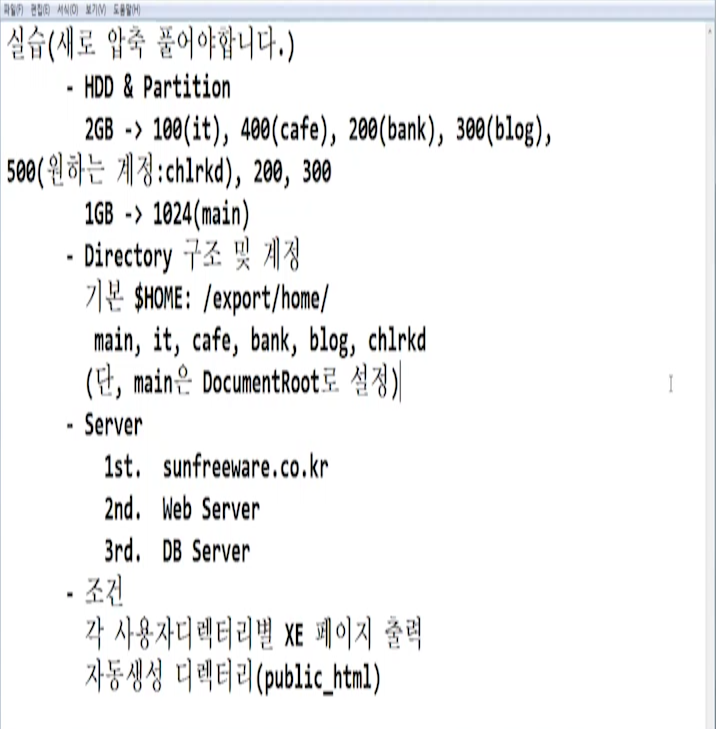
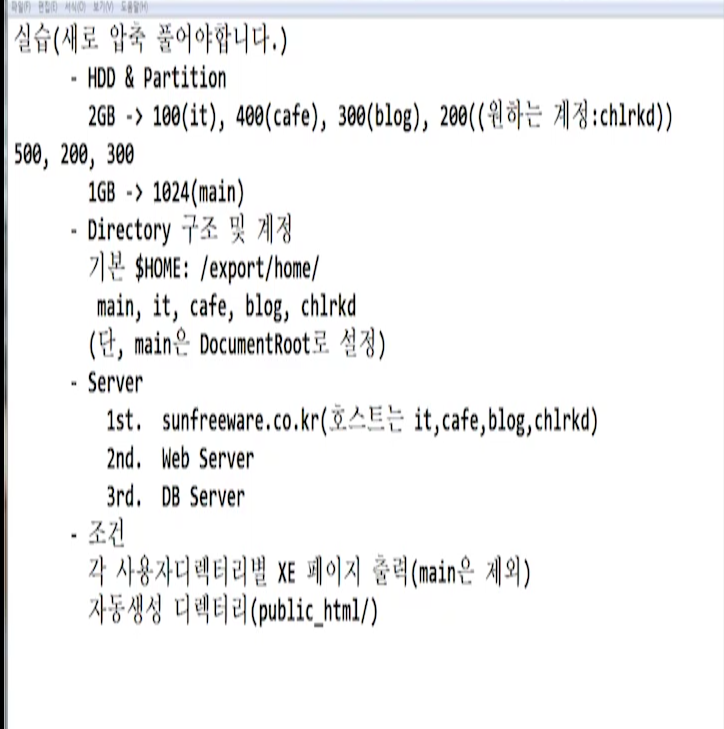
2020 July 1 Wen, Daily Commit
Today I studied Linux DNS, DB, WEB Total Project 1

Changed region(s): [[0.0, 0.0, 1.0, 1.0], [0.9218, 0.513, 0.9525, 0.5432]]

diff --git a/July 2020/7_1/Linux 종합.md b/July 2020/7_1/Linux 종합.md
@@ -1,0 +1,61 @@
+# [2020-07-01 수 TIL ]
+
+### Linux DNS / WEB / DB Server 
+
+- **XE 제로 보드** 사이트
+  - https://www.xpressengine.com/
+  - https://xe1.xpressengine.com/index.php?mid=download&package_id=18325662&release_id=22756225
+- 홈페이지 디자인 무료제작 
+  
+- 리눅스에도 .zip 파일 지원하기 때문에 `unzip` 명령으로 압축 풀수 있음 
+
+
+
+### <종합실습>
+
+<img src="./종합실습.PNG">
+
+ 
+
+- 파티션 유저  - Web Server(/dev/sdb)
+  - it 
+  - cafe 
+  - blog
+  - hyunjin (원하는 계정)
+- main (/dev/sdc)
+- domain : kangmung.com
+- **오토마운트 활성 후 사용자 생성** 
+- 시스템 3대 따로
+  - DNS 
+  - Web
+  - DB
+- xe 페이지 각각 3대 
+  - 각 사용자 디렉토리 
+
+
+
+***
+
+#### 7/1
+
+- OS 올릴때 swap 가상메모리 잘못잡음 
+  - Swap Memory 추가하기 (CentOS 7)
+    - [https://enesto.github.io/2018/11/19/181119_Swap%20Memory%20%EC%B6%94%EA%B0%80/](https://enesto.github.io/2018/11/19/181119_Swap Memory 추가/)
+- automount - `/etc/fstab` 설정 잘못함 
+- 패키지 설치 문제 
+
+- VMware Failed to lock the file 오류, 이렇게
+  - 출처: https://pikon.tistory.com/entry/VMware-Failed-to-lock-the-file-오류-이렇게 [피콘]
+
+- DNS, DB, WEB 방화벽 / 데몬 / 패키지 설정완료
+- 오토마운트 유저 성공 
+- main 유저 홈 디렉토리 못찾아감 / 나머지는 홈 디렉토리 잘찾아감 
+
+
+/dev/sdb1                         /export/home/mp_main/main/mp_it          ext4    defaults        1 2
+/dev/sdb2                         /export/home/mp_main/main/mp_cafe        ext4    defaults        1 2
+/dev/sdb3                         /export/home/mp_main/main/mp_blog        ext4    defaults        1 2
+/dev/sdb5                         /export/home/mp_main/main/mp_hyunjin     ext4    defaults        1 2
+/dev/sdc1                         /export/home/mp_main                     ext4    defaults        1 2
+
+***

diff --git a/June 2020/6_25/Linux FTP NFS Server Automount.md b/June 2020/6_25/Linux FTP NFS Server Automount.md
@@ -104,10 +104,11 @@ $ blkid # block id
 
 
 9 UUID=f08bb8c5-a64a-4c0e-a2bf-ff26020d0034 
-[M.P]	      [f.s type][Automount여부] [dump][filesystem check]
-/                ext4    defaults         1    1
-10 UUID=f75a7257-f359-4baa-8666-de95f1bf03ad 
-swap             swap    defaults         0    0
+[UUID]            [M.P]	      [f.s type][Automount여부] [dump][filesystem check]
+HDD 파티션이름      /               ext4    defaults         1    1
+
+[UUID]           10 UUID=f75a7257-f359-4baa-8666-de95f1bf03ad 
+/dev/sda2            swap             swap    defaults         0    0
 
 ```
 
@@ -122,7 +123,7 @@ swap             swap    defaults         0    0
 
 <img src="./automount.PNG">
 
-- 11번 라인 automount 실패시 부팅이안됨 (관리자 모드 부팅)
+- ### 11번 라인 automount 실패 시 부팅이 안됨 (관리자 모드 부팅해야함)
 
 
 

diff --git a/June 2020/6_26/Linux DNS Server.md b/June 2020/6_26/Linux DNS Server.md
@@ -80,6 +80,7 @@
         - naver
 
 - 정방향 조회 
+  
   - Domain -> IP 변환 (udp)
 - 역방향 조회
   - IP -> 역 IP
@@ -165,7 +166,7 @@ nameserver 168.126.63.1   # kns (인터넷 서버중 하나) 슈퍼dns
 
 #### `/etc/named.rfc1912.zones`
 
-- 정방향, 역방향 영역을 정의하는 파일 
+- **정방향, 역방향 영역을 정의하는 파일** 
 - 적혀있는 쉘 스크립트 복사해서 밑에 붙여넣은후 수정해야함 
 
 ```shell
@@ -258,3 +259,12 @@ zone "1.168.192.in-addr.arpa" IN {
   - ns.samadal.com.  도메인의 네임서버로 인터넷 검색을 함 
 - ns     IN      A       192.168.1.101
   - web server IP 적어줘야함 
+
+
+
+#### 정방향 역방향 정의 파일 권한 소유권 변경
+
+```shell
+chmod 645 kang*; chown :named kang*
+```
+

diff --git a/June 2020/6_15/Linux Install.md b/June 2020/6_15/Linux Install.md
@@ -103,6 +103,7 @@ vmx 파일 열기 경로 : `C:\Users\82105\Documents\Virtual Machines\CentOS 7.8
       - /(최상위) 용량은 비워둠 
         - File System - **ext4** 선택 
       - swap 2048 (리눅스의 가상메모리 : 사용자가 잡아줘야함 , 시스템이 잡지못함 )
+      - <img src="./파티션 swap.PNG">
 
 ***
 

diff --git a/June 2020/6_22/Linux HDD Partition Mount.md b/June 2020/6_22/Linux HDD Partition Mount.md
@@ -52,7 +52,7 @@
 
 - 사용자가 직접이름 부여
 
-- **IDE (병렬)**
+- **IDE (병렬)** - 이제 잘 쓰지않음 
   - **`/dev/hd*/`**  ->  hd + 문자 + 숫자
   - HDD 파티션이름형식 : hda5, hdb2, hdc(CD-ROM 장치),  hdd7, hde1 ...
 - **SCSI (직렬)**

diff --git a/June 2020/6_30/Linux DataBase Server.md b/June 2020/6_30/Linux DataBase Server.md
@@ -12,6 +12,8 @@
 - 포트: **3306**
 - 서비스 : **mysql**
 - 데몬 : **mariadb**
+- `./mysqld ` 로깅
+  - 실행 경로 : `/usr/libexec`
 
 ***
 

diff --git a/June 2020/6_18/Linux useradd privilege.md b/June 2020/6_18/Linux useradd privilege.md
@@ -25,7 +25,7 @@
 
   - `/etc/group`
 
-  - `/etc/skel/*`
+  - `/etc/skel/*` - **중요**
 
     - skel 정의 - 사전적의미 (해골)
 
